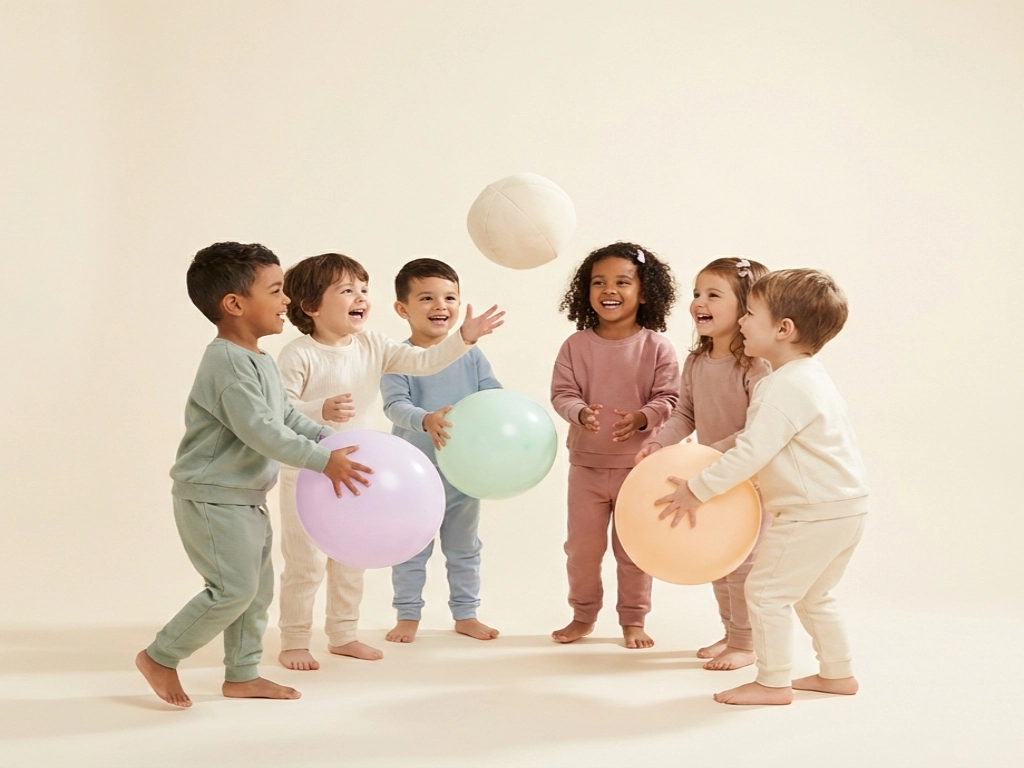
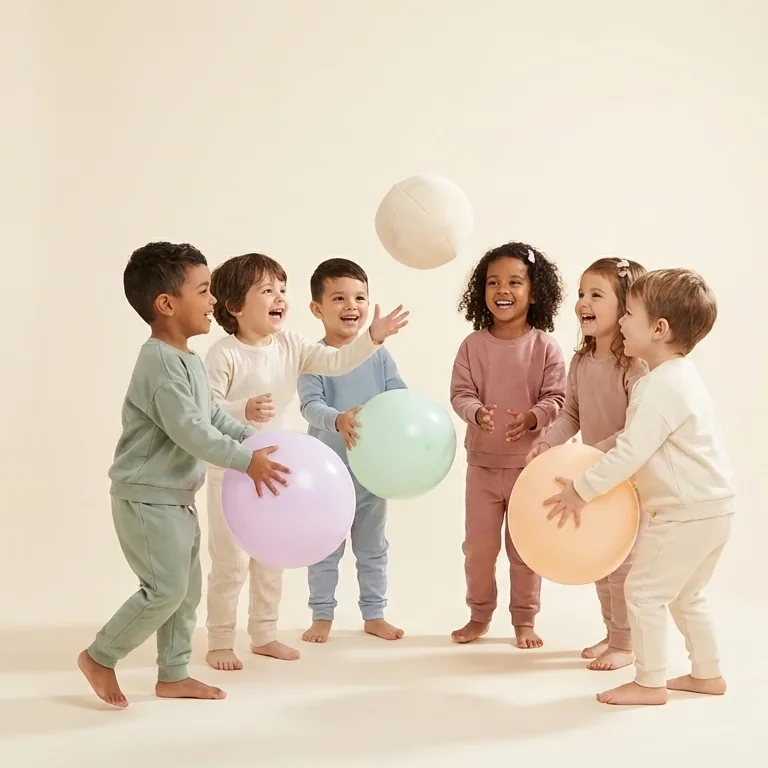
fix: replace horizontally stretched mobile hero photo
The old Hero1_Mobile.webp had been resized to 4:3 without preserving the
aspect ratio, so the children looked flattened on phones (home, about and
contact pages). Re-cropped a 768x768 square from the undistorted desktop
image instead.

Changed region(s): [[0.0625, 0.2188, 0.9688, 0.9688], [0.5938, 0.9062, 0.625, 0.9375]]

diff --git a/src/app/pages/HomePage.tsx b/src/app/pages/HomePage.tsx
@@ -221,7 +221,7 @@ function MobileHero() {
           alt="Діти граються з кульками"
           className="relative z-10 w-full h-full object-cover"
           sources={[
-            { src: heroImageMobileWebp, w: 640 }
+            { src: heroImageMobileWebp, w: 768 }
           ]}
           // для мобільного — картинка на всю ширину екрану
           sizes="100vw"

diff --git a/src/app/pages/ContactPage.tsx b/src/app/pages/ContactPage.tsx
@@ -42,7 +42,7 @@ function MobileContactHero() {
         <ResponsiveImage
           alt="Діти граються з кульками"
           className="relative z-10 w-full h-full object-cover"
-          sources={[{ src: heroImageMobileWebp, w: 640 }]}
+          sources={[{ src: heroImageMobileWebp, w: 768 }]}
           sizes="100vw"
           fetchPriority="high"
           loading="eager"

diff --git a/src/app/pages/AboutPage.tsx b/src/app/pages/AboutPage.tsx
@@ -41,7 +41,7 @@ function MobileAboutHero() {
         <ResponsiveImage
           alt="Діти граються з кульками"
           className="relative z-10 w-full h-full object-cover"
-          sources={[{ src: heroImageMobileWebp, w: 640 }]}
+          sources={[{ src: heroImageMobileWebp, w: 768 }]}
           sizes="100vw"
           fetchPriority="high"
           loading="eager"
